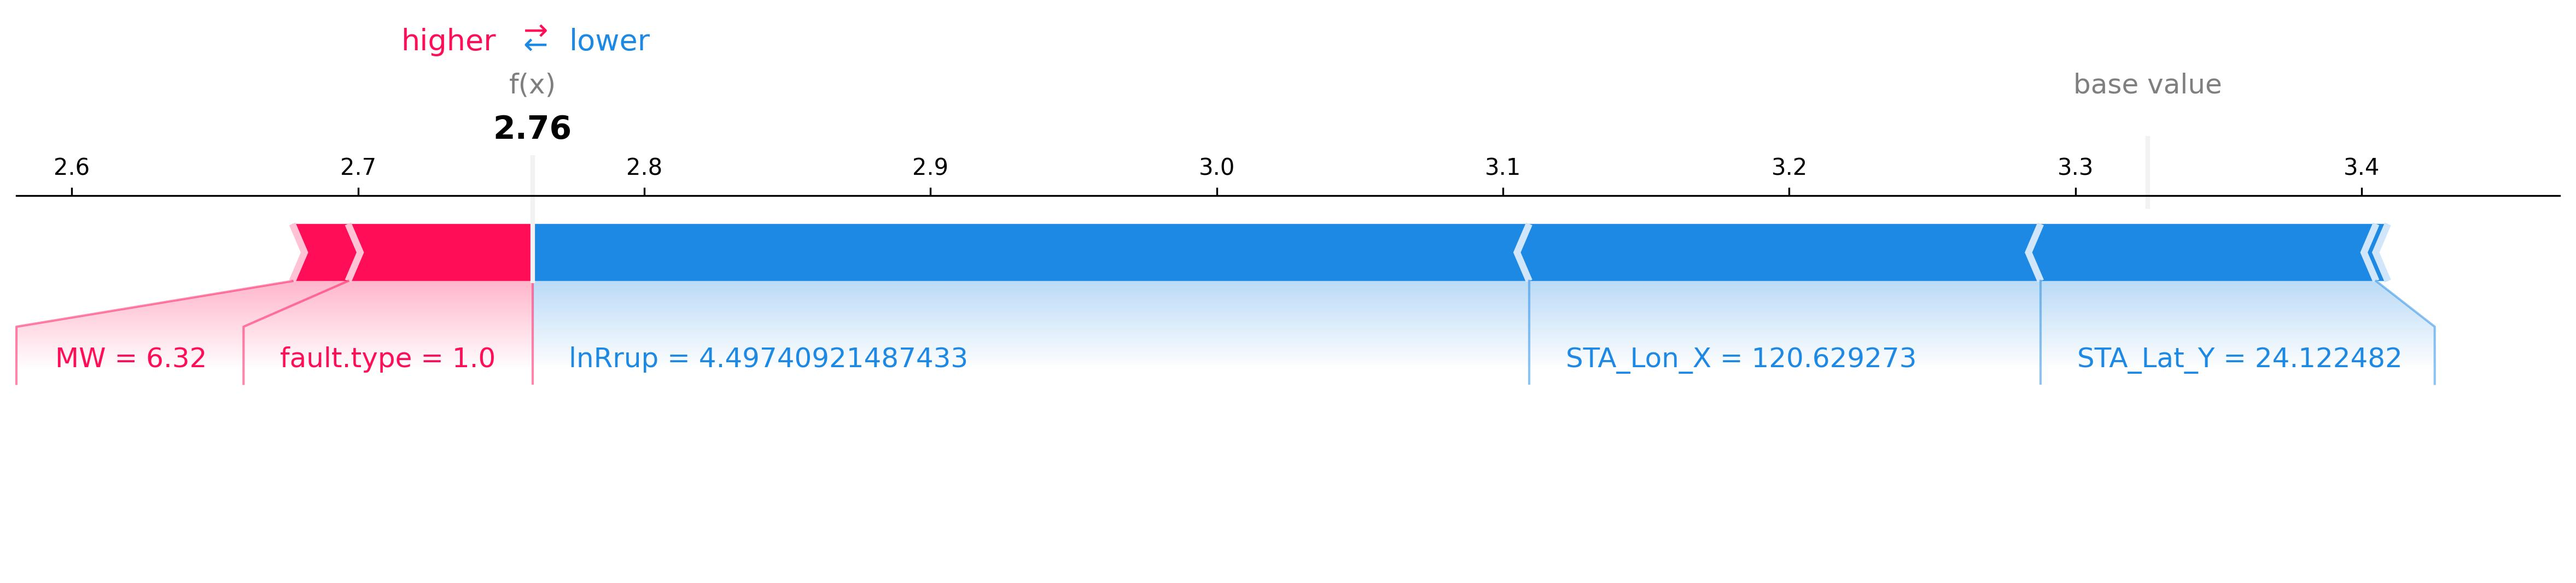
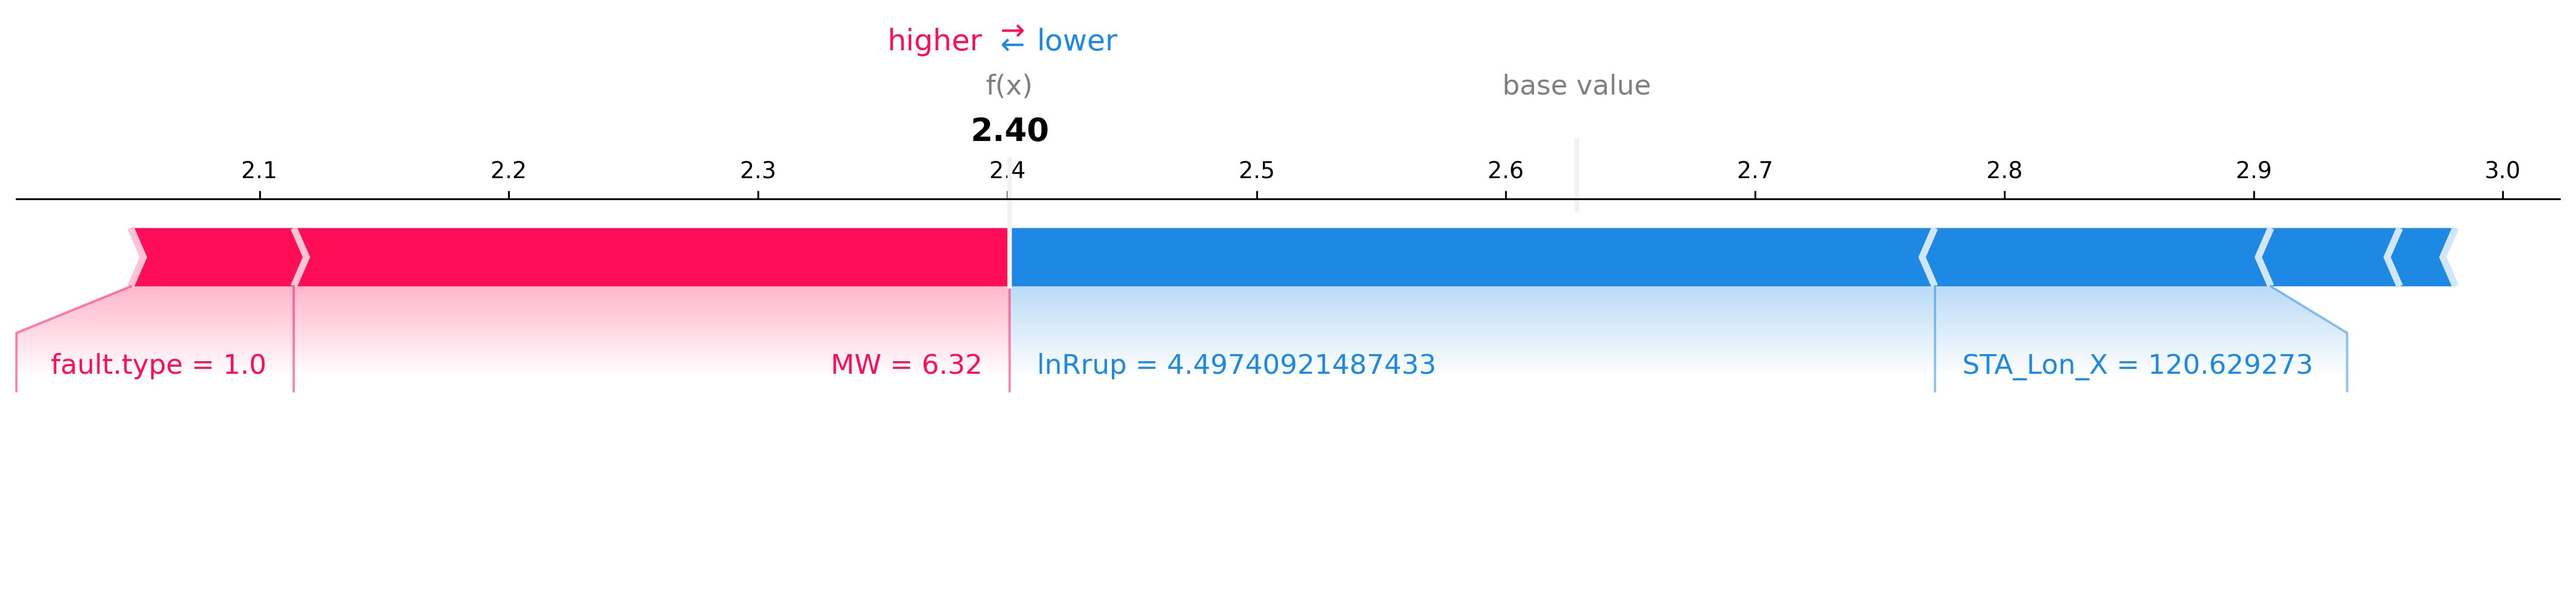
add catolog_process

diff --git a/machine_learning/XGB/XGB_TSMIP.py b/machine_learning/XGB/XGB_TSMIP.py
@@ -20,19 +20,17 @@ after_process_SMOGN_data = model.preprocess(TSMIP_smogn_df, target, False)
 after_process_ori_data = model.preprocess(TSMIP_df, target, True)
 after_process_DSCon = model.preprocess(DSCon, target, False)
 
+model_feture = ['lnVs30', 'MW',
+                'lnRrup', 'fault.type', 'STA_Lon_X',
+                'STA_Lat_Y']
 result_SMOGN = model.split_dataset(after_process_SMOGN_data,
-                                   f'ln{target}(gal)', True, 'lnVs30', 'MW',
-                                   'lnRrup', 'fault.type', 'STA_Lon_X',
-                                   'STA_Lat_Y')
+                                   f'ln{target}(gal)', True, *model_feture)
 result_ori = model.split_dataset(after_process_ori_data, f'ln{target}(gal)',
-                                 True, 'lnVs30', 'MW', 'lnRrup', 'fault.type',
-                                 'STA_rank')
+                                 True, *model_feture)
 original_data = model.split_dataset(after_process_ori_data, f'ln{target}(gal)',
-                                    False, 'lnVs30', 'MW', 'lnRrup',
-                                    'fault.type', 'STA_Lon_X', 'STA_Lat_Y')
+                                    False, *model_feture)
 DSCon_data = model.split_dataset(after_process_DSCon, f'ln{target}(gal)',
-                                 False, 'lnVs30', 'MW', 'lnRrup', 'fault.type',
-                                 'STA_Lon_X', 'STA_Lat_Y')
+                                 False, *model_feture)
 
 # result_ori[0](訓練資料)之shape : (29896,6) 為 29896筆 records 加上以下6個columns ['lnVs30','MW', 'lnRrup', 'fault.type', 'STA_Lon_X', 'STA_Lat_Y']
 score, feature_importances, fit_time, final_predict, ML_model = model.training(
@@ -55,27 +53,5 @@ plot_something = plot_fig("XGBooster", "XGB", "SMOGN", target)
 #     plot_something.distance_scaling(i, ML_model, DSCon_data, Vs30, Mw, faulttype,
 #                                     score)
 seed = 555
-plot_something.explainable(result_ori[1], ML_model, seed)
+plot_something.explainable(result_ori[1], model_feture, ML_model, seed)
 
-TSMIP_df = pd.read_csv(f"../../../TSMIP_FF.csv")
-point = [119.5635611,21.90093889] # 最左下角測站為基準
-STA_DIST = (((TSMIP_df["STA_Lat_Y"]-point[1])*110)**2 + ((TSMIP_df["STA_Lon_X"]-point[0])*101)**2)**(1/2)
-TSMIP_df["STA_DIST"] = STA_DIST
-TSMIP_df["STA_rank"] = TSMIP_df["STA_DIST"].rank(method='dense')
-
-from collections import Counter
-for i in range(1,38):
-    plt.figure(figsize=(20, 6))
-    plt.bar(list(dict(Counter(TSMIP_df["STA_ID"])).keys())[20*(i-1):20*i],list(dict(Counter(TSMIP_df["STA_ID"])).values())[20*(i-1):20*i])
-    plt.title(f'STA Distribution ID_{20*(i-1)}-{20*i}')
-    plt.savefig(f"STA_ID_distribution_{20*(i-1)}-{20*i}.jpg",dpi=300)
-# len(TSMIP_df["STA_ID"].unique())
-plt.scatter(TSMIP_df["STA_Lon_X"],
-            TSMIP_df["STA_Lat_Y"],
-            c=TSMIP_df["STA_rank"],
-                    cmap='bwr')
-plt.colorbar(extend='both', label='number value')
-plt.plot(point[0],point[1],"*",color='black')
-plt.title('STA ID')
-plt.savefig("STA_ID.jpg",dpi=300)
-plt.show()

diff --git a/machine_learning/design_pattern/catalog_process.py b/machine_learning/design_pattern/catalog_process.py
@@ -1,0 +1,26 @@
+import numpy as np
+from collections import Counter
+import pandas as pd
+import matplotlib.pyplot as plt
+
+TSMIP_df = pd.read_csv(f"../../../TSMIP_FF.csv")
+point = [119.5635611,21.90093889] # 最左下角測站為基準
+STA_DIST = (((TSMIP_df["STA_Lat_Y"]-point[1])*110)**2 + ((TSMIP_df["STA_Lon_X"]-point[0])*101)**2)**(1/2)
+TSMIP_df["STA_DIST"] = STA_DIST
+TSMIP_df["STA_rank"] = TSMIP_df["STA_DIST"].rank(method='dense')
+
+for i in range(1,38):
+    plt.figure(figsize=(20, 6))
+    plt.bar(list(dict(Counter(TSMIP_df["STA_ID"])).keys())[20*(i-1):20*i],list(dict(Counter(TSMIP_df["STA_ID"])).values())[20*(i-1):20*i])
+    plt.title(f'STA Distribution ID_{20*(i-1)}-{20*i}')
+    plt.savefig(f"STA_ID_distribution_{20*(i-1)}-{20*i}.jpg",dpi=300)
+# len(TSMIP_df["STA_ID"].unique())
+plt.scatter(TSMIP_df["STA_Lon_X"],
+            TSMIP_df["STA_Lat_Y"],
+            c=TSMIP_df["STA_rank"],
+                    cmap='bwr')
+plt.colorbar(extend='both', label='number value')
+plt.plot(point[0],point[1],"*",color='black')
+plt.title('TSMIP Station located')
+plt.savefig("../XGB/STA_ID.jpg",dpi=300)
+plt.show()

diff --git a/machine_learning/design_pattern/plot_figure.py b/machine_learning/design_pattern/plot_figure.py
@@ -793,12 +793,13 @@ class plot_fig:
     def explainable(
             self,
             x_test: "ori_test_feature",
+            model_feture,
             ML_model,
             seed
             ):
         df = pd.DataFrame(
             x_test,
-            columns=['lnVs30', 'MW', 'lnRrup', 'fault.type', 'STA_rank'])
+            columns = model_feture)
         explainer = shap.Explainer(ML_model)
         shap_values = explainer(df)
 
